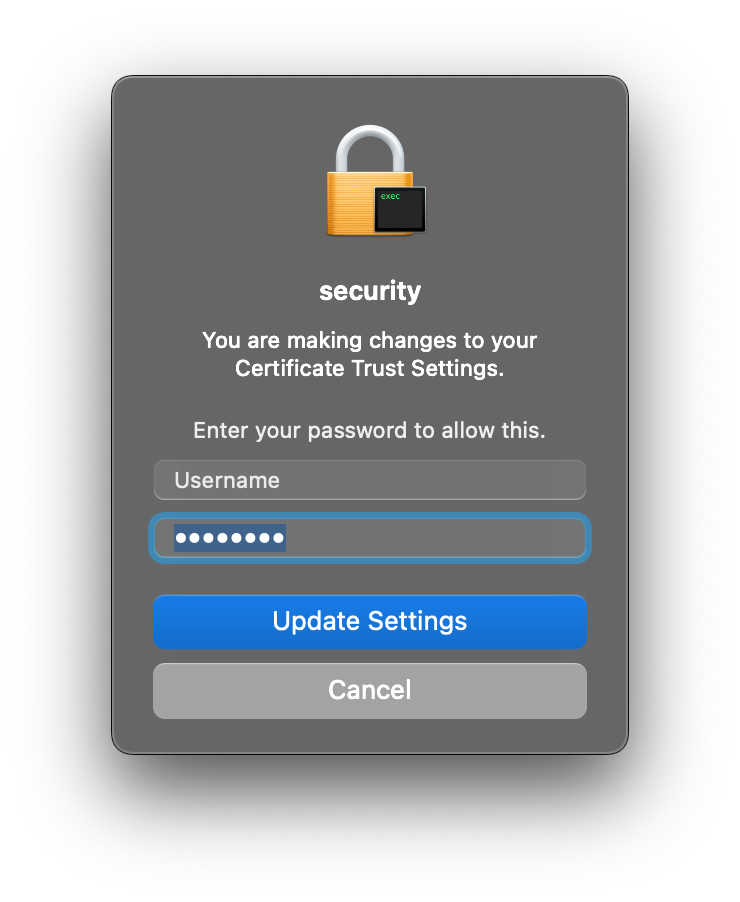
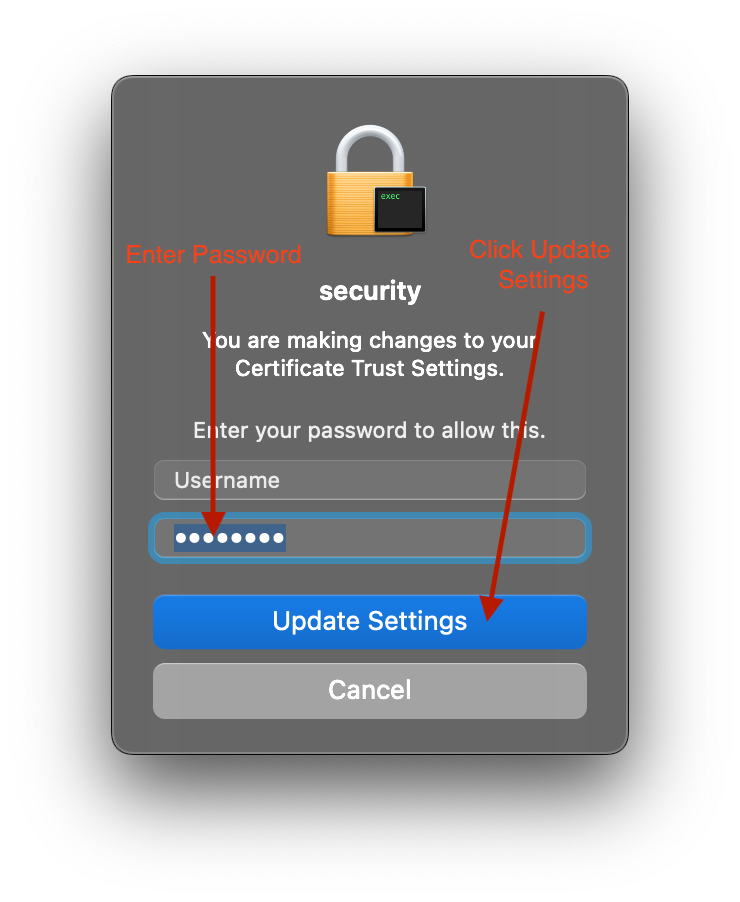
Added annotations to install cert images on mac and windows

Changed region(s): [[0.1554, 0.2483, 0.4041, 0.5898], [0.6527, 0.2483, 0.8081, 0.4346], [0.6527, 0.4346, 0.7149, 0.6829]]

diff --git a/opencola-server/server/src/main/resources/web/init/mac/installCert.html b/opencola-server/server/src/main/resources/web/init/mac/installCert.html
@@ -21,7 +21,7 @@
     </form>
 
     <br/>
-    <p>2. You will see a dialog similar to below. Enter your password and click <b>Update Settings</b> (In older versions of MacOS this might be <b>Modify Keychain</b></b></p>
+    <p>2. You will see a dialog similar to below. Enter your password (or use your fingerprint) and click <b>Update Settings</b> (In older versions of MacOS this might be <b>Modify Keychain</b></b></p>
     <img src="img/enterKeychainPassword.png" alt="Security Warning" width="360" class="center">
 </div>
 </body>
